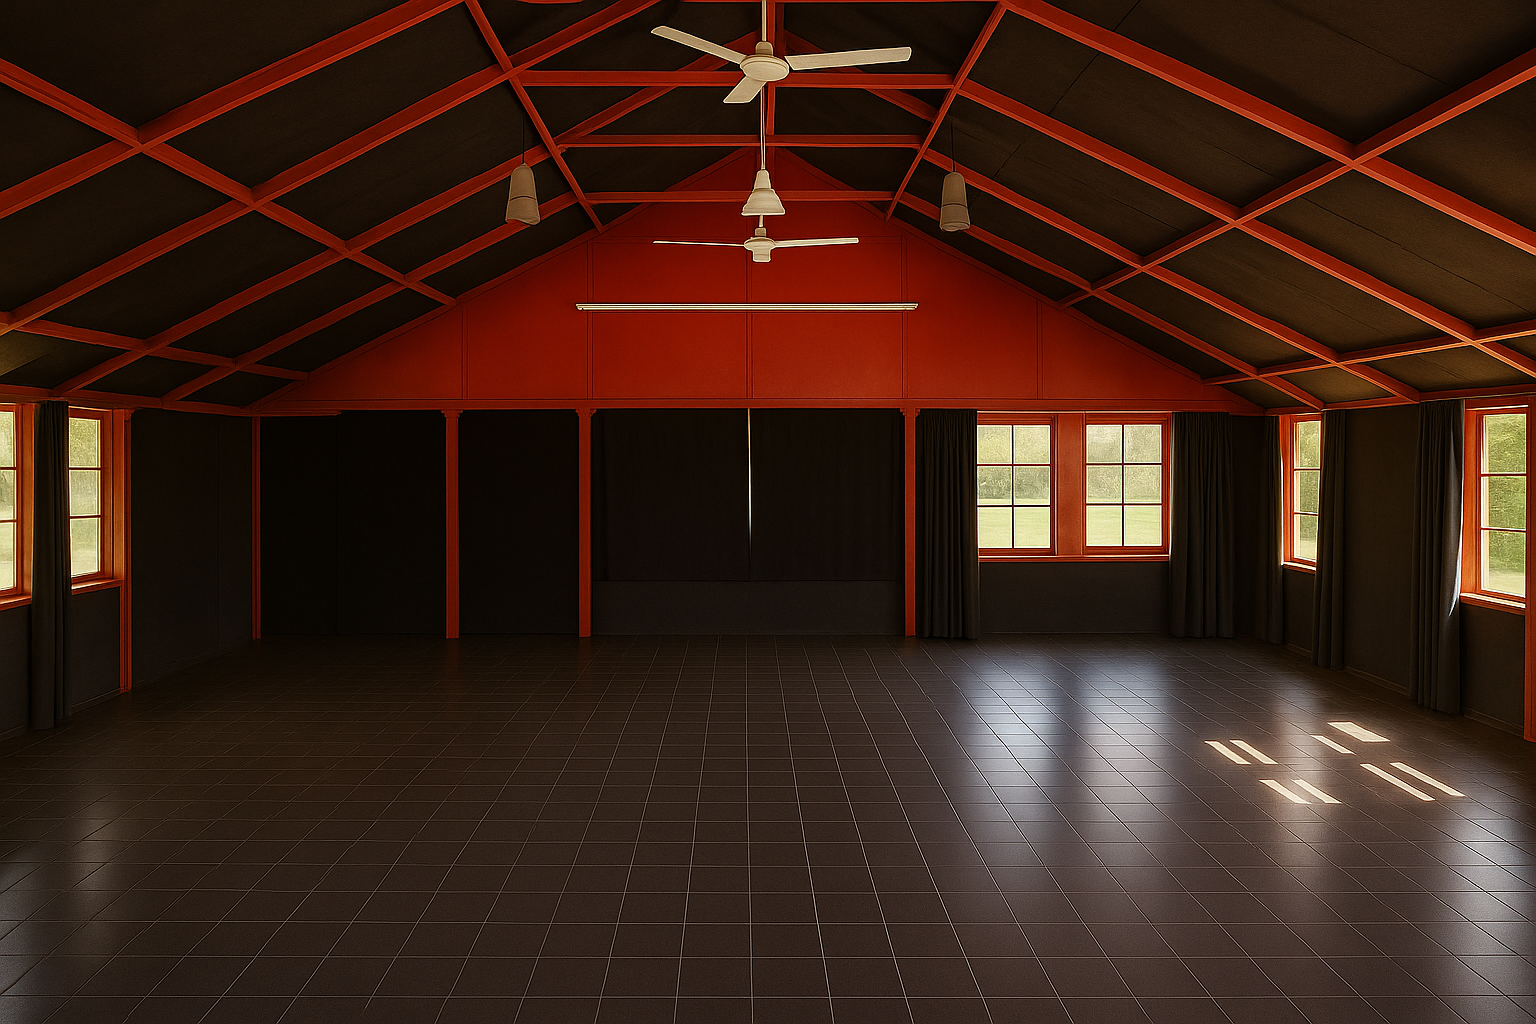
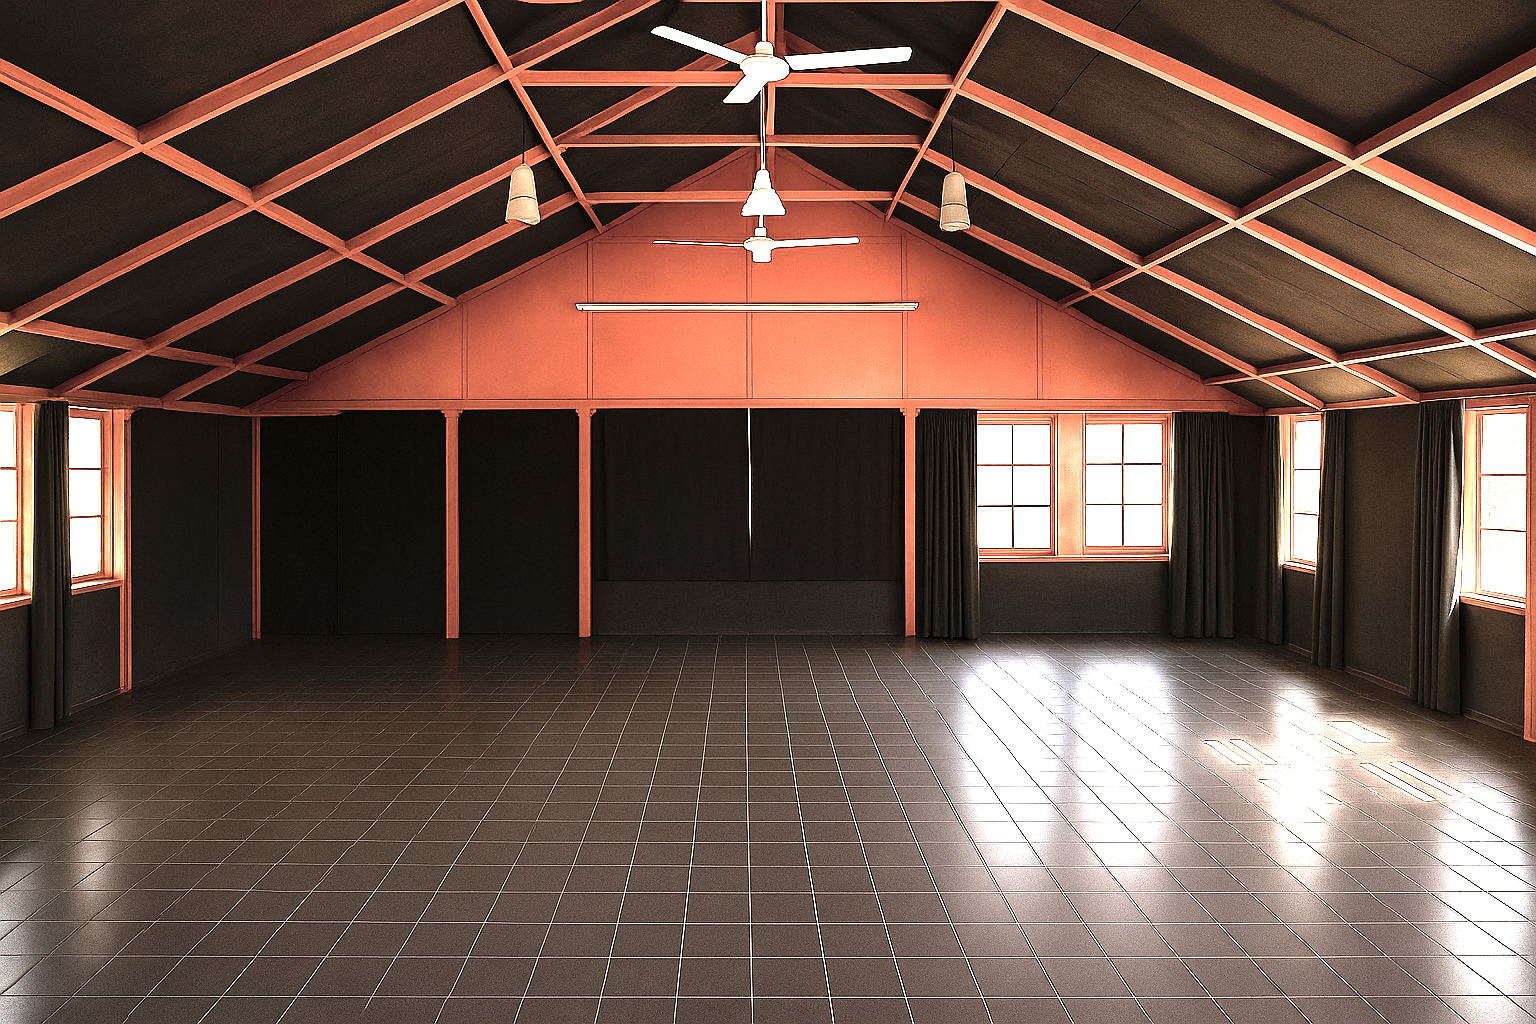
add facilites

diff --git a/index.html b/index.html
@@ -268,6 +268,23 @@
                         </div>
                     </div>
                 </div>
+                <div class="swiper-slide" data-bg-src="assets/images/index/slider/slider-4.jpg">
+                    <div class="hero-inner">
+                        <div class="container">
+                            <div class="hero-style5">
+                                <div class="hero-star-rating" data-ani="slideinup" data-ani-delay="0.4s"><i
+                                        class="fas fa-star"></i> <i class="fas fa-star"></i> <i class="fas fa-star"></i>
+                                    <i class="fas fa-star"></i> <i class="fas fa-star"></i>
+                                </div>
+                                <h1 class="hero-title" data-ani="slideinup" data-ani-delay="0.6s">Witness the Beauty of Sunset at Travancore Club</h1>
+                                <p class="hero-text" data-ani="slideinup" data-ani-delay="0.7s">Where every evening paints the sky with colors of peace and togetherness.</p>
+                                <div class="btn-wrap justify-content-center mt-40" data-ani="slideinup"
+                                    data-ani-delay="0.8s"><a href="membership.html"
+                                        class="th-btn2 style3 th-icon">Become a Member</a></div>
+                            </div>
+                        </div>
+                    </div>
+                </div>
             </div><button class="slider-arrow slider-prev"><span class="arrow"><img
                         src="assets/img/icon/hero-arrow-left.svg" alt="icon"></span></button> <button
                 class="slider-arrow slider-next"><span class="arrow"><img src="assets/img/icon/hero-arrow-right.svg"
@@ -298,7 +315,7 @@
                 <div class="col-lg-6">
                     <div class="about-wrap8">
                         <div class="title-area mb-45"><span class="sub-title2 style1">About Travancore Club</span>
-                            <h2 class="sec-title">Rooted in Tradition. Thriving in Community.
+                            <h2 class="sec-title">Rooted in Tradition... Thriving in Community.
                             </h2>
                             <p class="sec-text mt-35 mb-20">The Travancore Club was established in 1994 & moved into the present location at Perumthuruthy in 1996, with more than 6.5 acres of own land located on side of MC Road.
 </p>
@@ -401,20 +418,20 @@ The courts offer a smooth playing surface and ample lighting for a great match e
 
                 <div class="col-lg-6 col-xxl-4">
                     <div class="room-box">
-                        <div class="box-img"><img src="assets/images/facilities/ambulance.jpeg" alt=""></div>
+                        <div class="box-img"><img src="assets/images/facilities/pond-2.jpeg" alt=""></div>
                         <div class="box-title-area">
                             <div class="box-number">04</div>
-                            <h3 class="box-title"><a class="text-white" href="facilities.html">🚑 Ambulance & Home Care</a></h3>
+                            <h3 class="box-title"><a class="text-white" href="facilities.html">🌿 Walkway & Pond</a></h3>
                             
                         </div>
                         <div class="box-content">
                             <div class="box-wrapp">
                                 <div class="box-number">04</div>
-                                <h3 class="box-title"><a class="text-white" href="facilities.html">🚑 Ambulance & Home Care</a></h3>
+                                <h3 class="box-title"><a class="text-white" href="facilities.html">🌿 Walkway & Pond</a></h3>
                                 <div class="room-card-meta">
                                     <p class="text-white">
-                                        We offer timely ambulance services and basic home care support to our members in times of need.
-This reflects the club’s commitment to health, safety, and social responsibility within the community.
+                                       A serene walkway around a peaceful pond offers a refreshing break from routine.
+Enjoy quiet strolls, natural beauty, and moments of reflection in this green escape.
                                     </p>
                                 </div>
                                 
@@ -669,43 +686,19 @@ Designed to meet professional standards for both casual and competitive games.
         <div class="marquee-content positive-relative overflow-hidden">
             <div class="marquee">
                 <div class="marquee-group">
-                    <div class="item"><img src="assets/images/travancore-club-log.PNG" alt=""><span>EVENTS</span></div>
-                    <div class="item"><img src="assets/images/travancore-club-log.PNG" alt=""><span>CELEBRATIONS</span>
+                    <div class="item"><img src="assets/images/travancore-club-log.PNG" alt=""><span>Family Club</span></div>
+                    <div class="item"><img src="assets/images/travancore-club-log.PNG" alt=""><span>Travancore Club, Thiruvalla</span>
                     </div>
-                    <div class="item"><img src="assets/images/travancore-club-log.PNG" alt=""><span>EVENTS</span></div>
-                    <div class="item"><img src="assets/images/travancore-club-log.PNG" alt=""><span>CELEBRATIONS</span>
-                    </div>
-                    <div class="item"><img src="assets/images/travancore-club-log.PNG" alt=""><span>EVENTS</span></div>
-                    <div class="item"><img src="assets/images/travancore-club-log.PNG" alt=""><span>CELEBRATIONS</span>
-                    </div>
-                    <div class="item"><img src="assets/images/travancore-club-log.PNG" alt=""><span>EVENTS</span></div>
-                    <div class="item"><img src="assets/images/travancore-club-log.PNG" alt=""><span>CELEBRATIONS</span>
-                    </div>
-                    <div class="item"><img src="assets/images/travancore-club-log.PNG" alt=""><span>EVENTS</span></div>
-                    <div class="item"><img src="assets/images/travancore-club-log.PNG" alt=""><span>CELEBRATIONS</span>
-                    </div>
-                    <div class="item"><img src="assets/images/travancore-club-log.PNG" alt=""><span>EVENTS</span></div>
-                    <div class="item"><img src="assets/images/travancore-club-log.PNG" alt=""><span>CELEBRATIONS</span>
+                    <div class="item"><img src="assets/images/travancore-club-log.PNG" alt=""><span>Family Club</span></div>
+                    <div class="item"><img src="assets/images/travancore-club-log.PNG" alt=""><span>Travancore Club, Thiruvalla</span>
                     </div>
                 </div>
                 <div aria-hidden="true" class="marquee-group">
-                    <div class="item"><img src="assets/images/travancore-club-log.PNG" alt=""><span>EVENTS</span></div>
-                    <div class="item"><img src="assets/images/travancore-club-log.PNG" alt=""><span>CELEBRATIONS</span>
+                    <div class="item"><img src="assets/images/travancore-club-log.PNG" alt=""><span>Family Club</span></div>
+                    <div class="item"><img src="assets/images/travancore-club-log.PNG" alt=""><span>Travancore Club, Thiruvalla</span>
                     </div>
-                    <div class="item"><img src="assets/images/travancore-club-log.PNG" alt=""><span>EVENTS</span></div>
-                    <div class="item"><img src="assets/images/travancore-club-log.PNG" alt=""><span>CELEBRATIONS</span>
-                    </div>
-                    <div class="item"><img src="assets/images/travancore-club-log.PNG" alt=""><span>EVENTS</span></div>
-                    <div class="item"><img src="assets/images/travancore-club-log.PNG" alt=""><span>CELEBRATIONS</span>
-                    </div>
-                    <div class="item"><img src="assets/images/travancore-club-log.PNG" alt=""><span>EVENTS</span></div>
-                    <div class="item"><img src="assets/images/travancore-club-log.PNG" alt=""><span>CELEBRATIONS</span>
-                    </div>
-                    <div class="item"><img src="assets/images/travancore-club-log.PNG" alt=""><span>EVENTS</span></div>
-                    <div class="item"><img src="assets/images/travancore-club-log.PNG" alt=""><span>CELEBRATIONS</span>
-                    </div>
-                    <div class="item"><img src="assets/images/travancore-club-log.PNG" alt=""><span>EVENTS</span></div>
-                    <div class="item"><img src="assets/images/travancore-club-log.PNG" alt=""><span>CELEBRATIONS</span>
+                    <div class="item"><img src="assets/images/travancore-club-log.PNG" alt=""><span>Family Club</span></div>
+                    <div class="item"><img src="assets/images/travancore-club-log.PNG" alt=""><span>Travancore Club, Thiruvalla</span>
                     </div>
                 </div>
             </div>

diff --git a/facilities.html b/facilities.html
@@ -218,7 +218,7 @@
             <div class="row gy-4">
                 <div class="col-lg-6 col-xxl-4">
                     <div class="room-box">
-                        <div class="box-img"><img src="assets/images/facilities/Auditorium-1.jpeg" alt=""></div>
+                        <div class="box-img"><img src="assets/images/facilities/1.jpeg" alt=""></div>
                         <div class="box-title-area">
                             <div class="box-number">01</div>
                             <h3 class="box-title"><a class="text-white" href="facilities.html">🏛 Spacious AC Auditorium</a></h3>
@@ -313,19 +313,90 @@ This reflects the club’s commitment to health, safety, and social responsibili
                         </div>
                     </div>
                 </div>
+                
+                <div class="col-lg-6 col-xxl-4">
+                    <div class="room-box">
+                        <div class="box-img"><img src="assets/images/facilities/open-air-restaurant.jpeg" alt=""></div>
+                        <div class="box-title-area">
+                            <div class="box-number">04</div>
+                            <h3 class="box-title"><a class="text-white" href="facilities.html">🍴 Open-Air Restaurant</a></h3>
+                            
+                        </div>
+                        <div class="box-content">
+                            <div class="box-wrapp">
+                                <div class="box-number">04</div>
+                                <h3 class="box-title"><a class="text-white" href="facilities.html">🍴 Open-Air Restaurant</a></h3>
+                                <div class="room-card-meta">
+                                    <p class="text-white">
+                                        Dine in a refreshing outdoor setting surrounded by nature, perfect for family gatherings and casual evenings.
+Our open-air restaurant offers a relaxed ambiance with delicious food, blending comfort with a scenic atmosphere.
+                                    </p>
+                                </div>
+                                
+                            </div>
+                        </div>
+                    </div>
+                </div>
+                <div class="col-lg-6 col-xxl-4">
+                    <div class="room-box">
+                        <div class="box-img"><img src="assets/images/facilities/fishing.jpeg" alt=""></div>
+                        <div class="box-title-area">
+                            <div class="box-number">04</div>
+                            <h3 class="box-title"><a class="text-white" href="facilities.html">🎣 Fishing</a></h3>
+                            
+                        </div>
+                        <div class="box-content">
+                            <div class="box-wrapp">
+                                <div class="box-number">04</div>
+                                <h3 class="box-title"><a class="text-white" href="facilities.html">🎣 Fishing</a></h3>
+                                <div class="room-card-meta">
+                                    <p class="text-white">
+                                        Relax by the calm waters and enjoy a peaceful fishing experience within the club premises.
+A perfect spot for leisure, reflection, and connecting with nature amidst a serene environment.
+                                    </p>
+                                </div>
+                                
+                            </div>
+                        </div>
+                    </div>
+                </div>
 
                 <div class="col-lg-6 col-xxl-4">
                     <div class="room-box">
-                        <div class="box-img"><img src="assets/images/facilities/kids-park.jpeg" alt=""></div>
+                        <div class="box-img"><img src="assets/images/facilities/table-tennis.webp" alt=""></div>
+                        <div class="box-title-area">
+                            <div class="box-number">04</div>
+                            <h3 class="box-title"><a class="text-white" href="facilities.html">🏓 Table Tennis</a></h3>
+                            
+                        </div>
+                        <div class="box-content">
+                            <div class="box-wrapp">
+                                <div class="box-number">04</div>
+                                <h3 class="box-title"><a class="text-white" href="facilities.html">🏓 Table Tennis</a></h3>
+                                <div class="room-card-meta">
+                                    <p class="text-white">
+                                        Sharpen your reflexes and enjoy exciting matches at our dedicated table tennis area.
+A perfect blend of fun and fitness, it’s ideal for both casual play and competitive practice.
+                                    </p>
+                                </div>
+                                
+                            </div>
+                        </div>
+                    </div>
+                </div>
+
+                <div class="col-lg-6 col-xxl-4">
+                    <div class="room-box">
+                        <div class="box-img"><img src="assets/images/facilities/kids-play-area.jpg" alt=""></div>
                         <div class="box-title-area">
                             <div class="box-number">05</div>
-                            <h3 class="box-title"><a class="text-white" href="facilities.html">🎠 Kids Park <br> Open Restaurant </a></h3>
+                            <h3 class="box-title"><a class="text-white" href="facilities.html">🎠 Kids Park </a></h3>
                             
                         </div>
                         <div class="box-content">
                             <div class="box-wrapp">
                                 <div class="box-number">05</div>
-                                <h3 class="box-title"><a class="text-white" href="facilities.html">🎠 Kids Park <br> Open Restaurant </a></h3>
+                                <h3 class="box-title"><a class="text-white" href="facilities.html">🎠 Kids Park </a></h3>
                                 <div class="room-card-meta">
                                     <p class="text-white">
                                        A safe and joyful play area designed exclusively for children to have fun and stay active.
